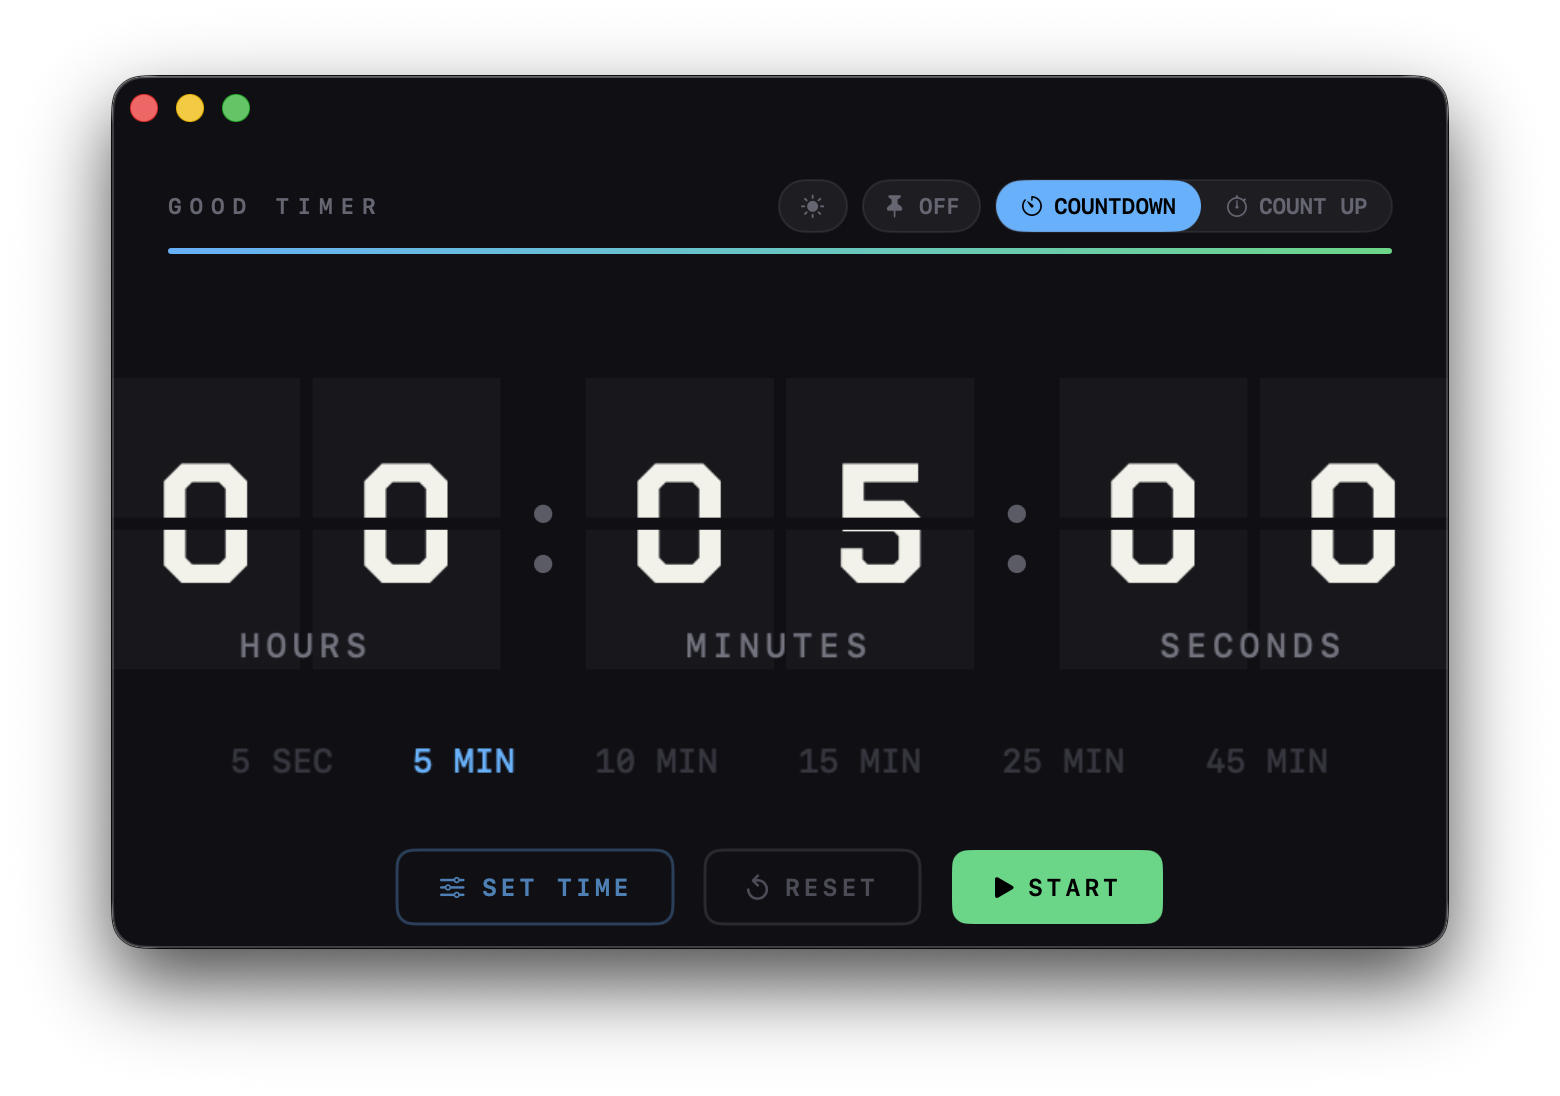
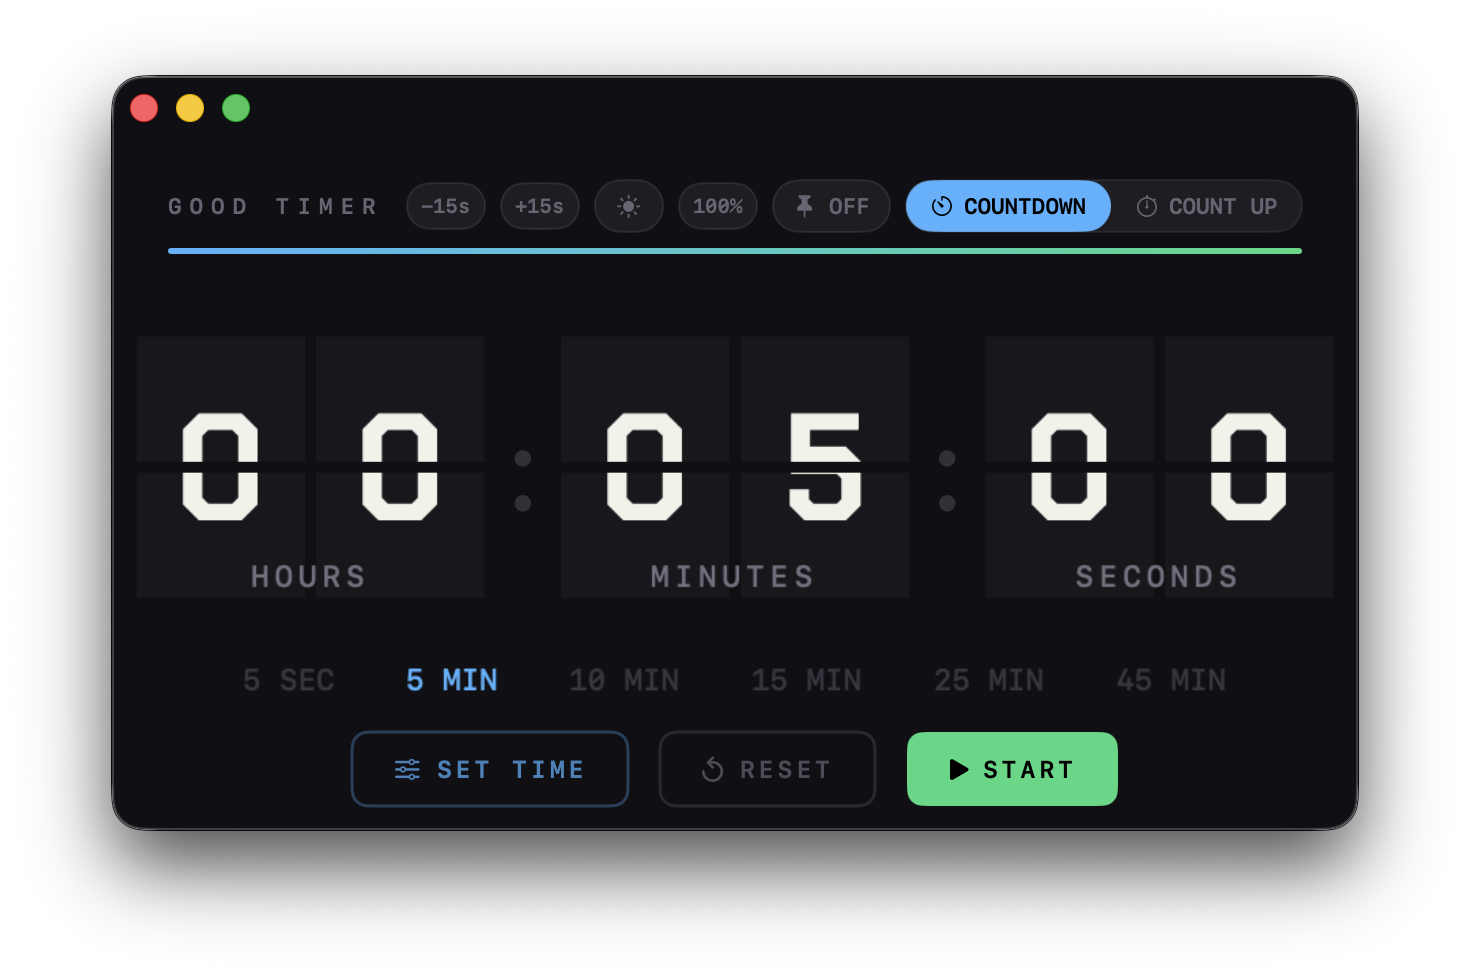
chore: bump version to 1.1.3, update README and screenshot

diff --git a/README.md b/README.md
@@ -15,6 +15,8 @@
 - **快速預設時間**：提供 5 秒、5、10、15、25、45 分鐘等常用快選，一鍵設定
 - **Menu Bar 控制台**：menu bar 顯示計時狀態，點擊展開迷你控制面板，免切視窗即可操作
 - **計時結束提醒**：倒數歸零時發出 Glass → Glass → Ping 三聲層次提示音
+- **±15 秒快轉**：topBar 一鍵微調計時時間，講師授課快轉利器
+- **視窗透明度**：四段透明度切換（100%/75%/50%/25%），投影場景好幫手
 - **深色 / 淺色主題**：右上角可一鍵切換，適應不同使用情境
 - **進度條顯示**：視覺化呈現計時進度
 - **動態縮放**：視窗可自由拖曳調整大小，計時器自動等比例縮放
@@ -24,7 +26,7 @@
 
 ## 下載安裝
 
-**[⬇ 下載 GoodTimer-1.1.2.dmg](https://github.com/lindsayrain/good-timer/releases/download/v1.1.2/GoodTimer-1.1.2.dmg)**
+**[⬇ 下載 GoodTimer-1.1.3.dmg](https://github.com/lindsayrain/good-timer/releases/download/v1.1.3/GoodTimer-1.1.3.dmg)**
 
 1. 下載 DMG 並開啟
 2. 將 `GoodTimer.app` 拖曳至 Applications 資料夾